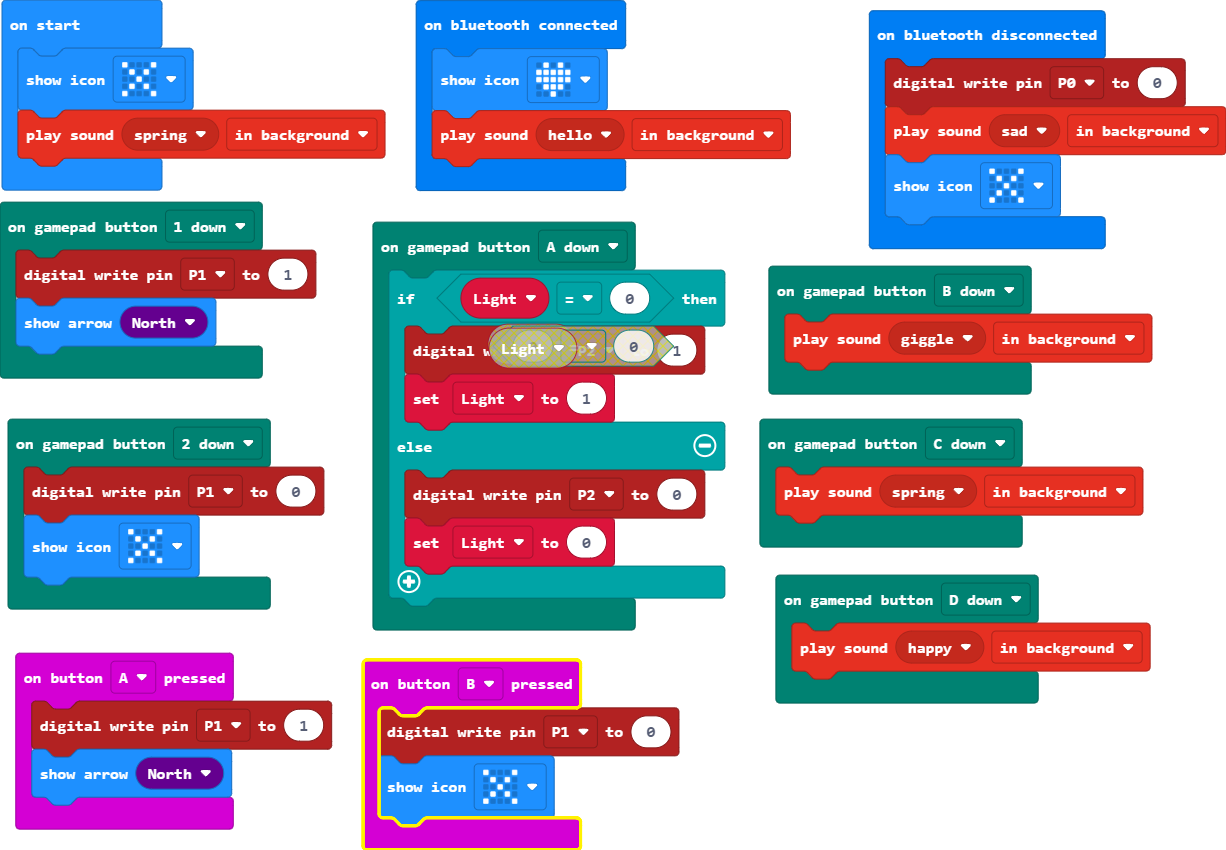
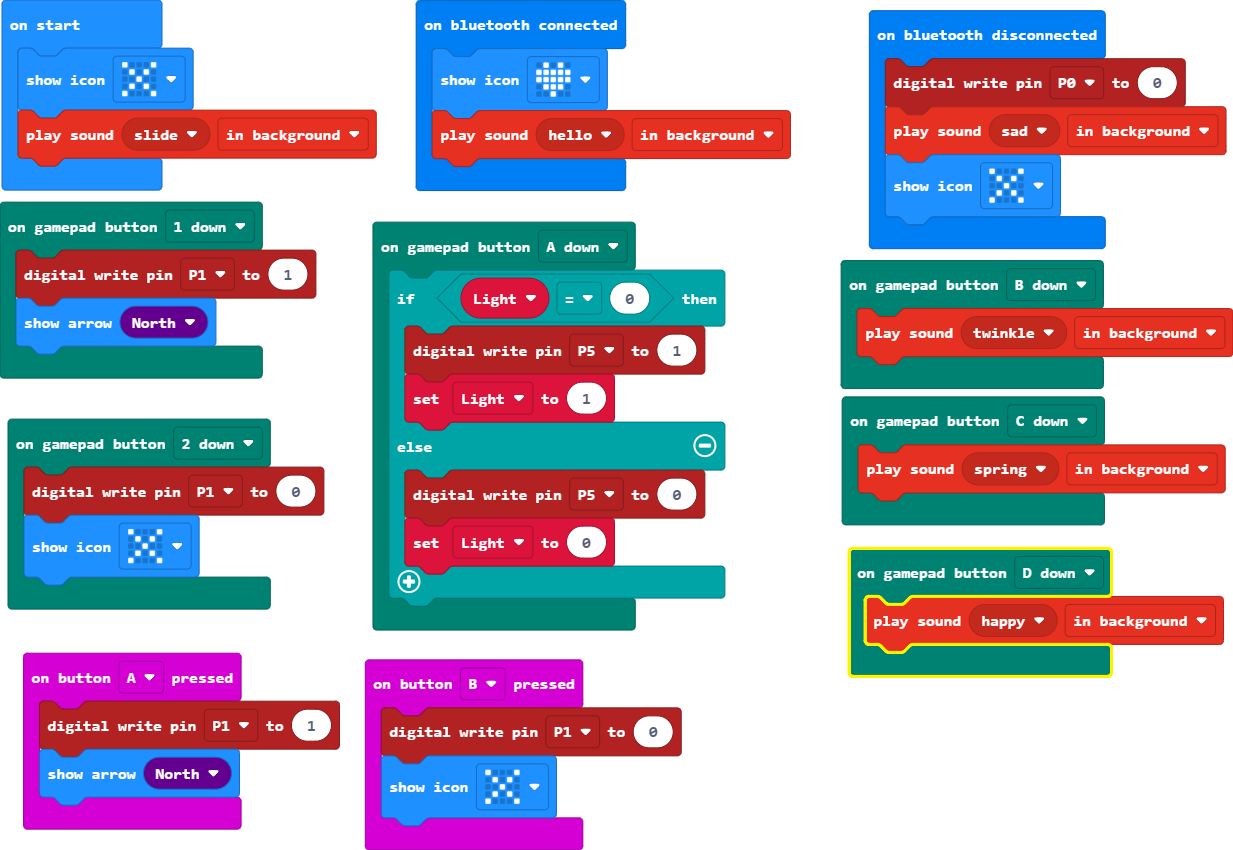
Update main.blocks, main.ts

diff --git a/main.ts b/main.ts
@@ -8,7 +8,7 @@ bluetooth.onBluetoothDisconnected(function () {
     basic.showIcon(IconNames.No)
 })
 devices.onGamepadButton(MesDpadButtonInfo.BDown, function () {
-    music.playSoundEffect(music.builtinSoundEffect(soundExpression.giggle), SoundExpressionPlayMode.InBackground)
+    music.playSoundEffect(music.builtinSoundEffect(soundExpression.twinkle), SoundExpressionPlayMode.InBackground)
 })
 input.onButtonPressed(Button.A, function () {
     pins.digitalWritePin(DigitalPin.P1, 1)
@@ -30,10 +30,10 @@ input.onButtonPressed(Button.B, function () {
 })
 devices.onGamepadButton(MesDpadButtonInfo.ADown, function () {
     if (Light == 0) {
-        pins.digitalWritePin(DigitalPin.P2, 1)
+        pins.digitalWritePin(DigitalPin.P5, 1)
         Light = 1
     } else {
-        pins.digitalWritePin(DigitalPin.P2, 0)
+        pins.digitalWritePin(DigitalPin.P5, 0)
         Light = 0
     }
 })
@@ -43,4 +43,4 @@ devices.onGamepadButton(MesDpadButtonInfo._1Down, function () {
 })
 let Light = 0
 basic.showIcon(IconNames.No)
-music.playSoundEffect(music.builtinSoundEffect(soundExpression.spring), SoundExpressionPlayMode.InBackground)
+music.playSoundEffect(music.builtinSoundEffect(soundExpression.slide), SoundExpressionPlayMode.InBackground)
